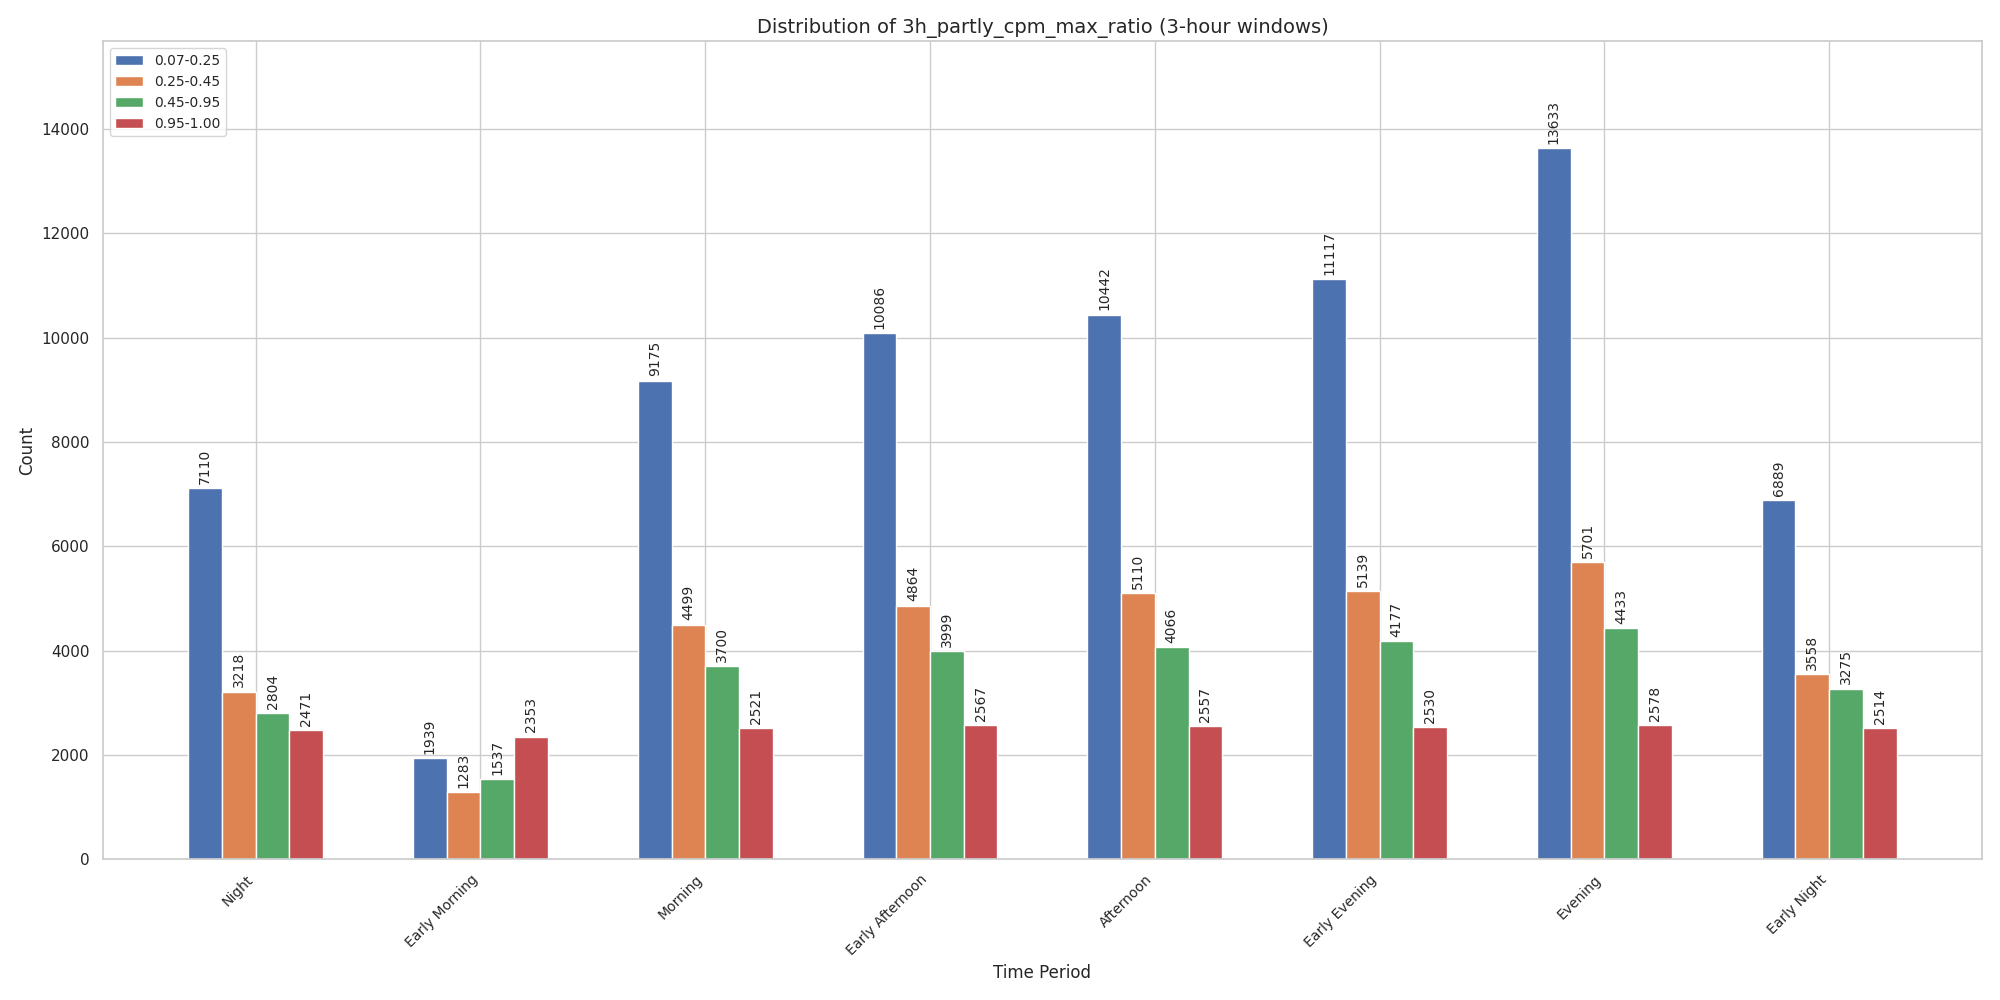
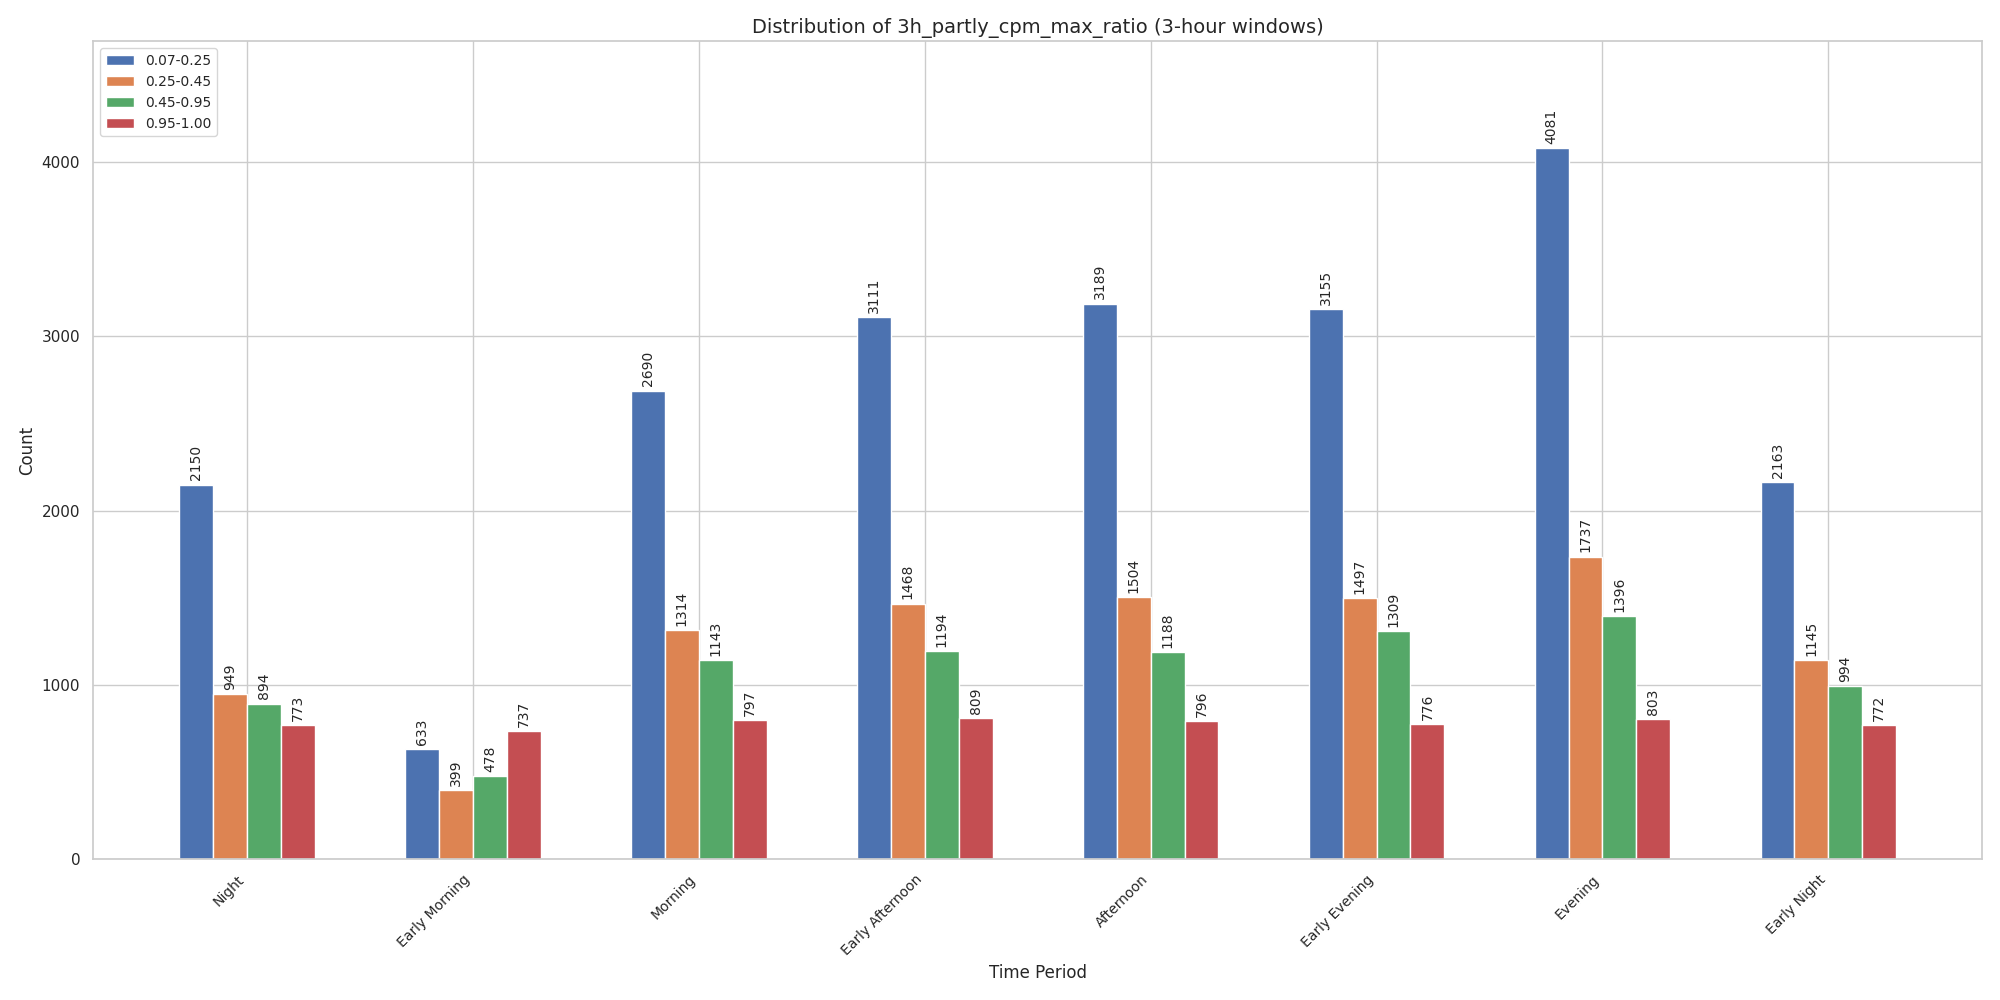
Commit 14 - Cleanup     - Inheritance and dataclass structure adjustment

diff --git a/src/models/pricing.py b/src/models/pricing.py
@@ -5,49 +5,43 @@ from typing import Dict
 
 import pandas as pd
 
-from config.data import DataConfig
-from config.data import DataState
 from config.model import ModelConfig
-from utils.running import Running
+from utils.execution import TaskExecutor
 
 
 class DynamicPricing:
     """Apply dynamic pricing to a dataframe."""
 
-    def __init__(self, data_state: DataState, data_config: DataConfig, model_config: ModelConfig):
-        self.ds = data_state
-        self.dc = data_config
-        self.runner = Running(self.ds, self.dc)
-        self.config = model_config
+    def __init__(self, model_config: ModelConfig):
+        self.mc = model_config
 
     def pipeline(self, df: pd.DataFrame) -> pd.DataFrame:
-        base_profit = df['price'].sum()
-
         steps = [
             self.apply_dynamic_pricing
         ]
         for step in steps:
-            df = self.runner.run_child_step(step, df)
+            df = TaskExecutor.run_child_step(step, df)
 
+        base_profit = df['price'].sum()
         dynamic_profit = df['dynamic_price'].sum()
         logging.info(f"Base return: {base_profit:.2f}, Dynamic return: {dynamic_profit:.2f}")
         logging.info(f"Return difference: {dynamic_profit - base_profit:.2f}")
         return df
 
     def calculate_surge_multiplier(self, mean_ratio: float) -> float:
-        for (lower, upper), multiplier in self.config.mean_ratio_bins.items():
+        for (lower, upper), multiplier in self.mc.mean_ratio_bins.items():
             if lower <= mean_ratio < upper:
                 return multiplier
         return 1.0
 
     def calculate_base_multiplier(self, max_ratio: float) -> float:
-        for (lower, upper), multiplier in self.config.max_ratio_bins.items():
+        for (lower, upper), multiplier in self.mc.max_ratio_bins.items():
             if lower <= max_ratio < upper:
                 return multiplier
         return 1.0
 
     def calculate_time_multiplier(self, time_period: str) -> float:
-        return self.config.day_parts.get(time_period, 1.0)
+        return self.mc.day_parts.get(time_period, 1.0)
 
     def calculate_demand_multiplier(self, row: Dict) -> float:
         surge_multiplier = self.calculate_surge_multiplier(row['3h_partly_cpm_mean_ratio'])

diff --git a/src/pipelines/data_pipeline.py b/src/pipelines/data_pipeline.py
@@ -1,32 +1,31 @@
 from __future__ import annotations
 
-from config.data import DataConfig
 from config.data import DataState
 from config.model import ModelConfig
 from src.data.make_dataset import MakeDataset
 from src.data.process import InitialProcessor
 from src.features.bound_analysis import AnalyseBounds
-from src.features.build_features import BuildFeatures
+from src.features.build_features import BuildAnalysisFeatures
 from src.features.build_model_features import BuildModelFeatures
 from src.models.pricing import DynamicPricing
-from utils.running import Running
+from utils.execution import TaskExecutor
 
 
 class DataPipeline:
-    def __init__(self, data_state: DataState, data_config: DataConfig, model_config: ModelConfig):
+    def __init__(self, exe: TaskExecutor, data_state: DataState, model_config: ModelConfig):
+        self.exe = exe
         self.ds = data_state
-        self.dc = data_config
+        self.dc = self.ds.config
         self.mc = model_config
-        self.runner = Running(self.ds, self.dc)
 
     def main(self):
         steps = [
-            (MakeDataset(self.ds, self.dc), 'raw', 'sdo'),
-            (InitialProcessor(self.ds, self.dc), 'sdo', 'process1'),
-            (BuildFeatures(self.ds, self.dc), 'process1', 'features1'),
-            (AnalyseBounds(self.ds, self.dc, self.mc), 'features1', None),
-            (BuildModelFeatures(self.ds, self.dc), 'process1', 'features2'),
-            (DynamicPricing(self.ds, self.dc, self.mc), 'features2', 'result'),
+            (MakeDataset(), 'raw', 'sdo'),
+            (InitialProcessor(), 'sdo', 'process1'),
+            (BuildAnalysisFeatures(self.dc), 'process1', 'features1'),
+            (AnalyseBounds(self.mc), 'features1', None),
+            (BuildModelFeatures(), 'process1', 'features2'),
+            (DynamicPricing(self.mc), 'features2', 'result'),
         ]
         for step, load_path, save_paths in steps:
-            self.runner.run_parent_step(step.pipeline, load_path, save_paths)
+            self.exe.run_parent_step(step.pipeline, load_path, save_paths)

diff --git a/main.py b/main.py
@@ -7,27 +7,27 @@ from config.data import DataPaths
 from config.data import DataState
 from config.model import ModelConfig
 from src.pipelines.data_pipeline import DataPipeline
+from utils.execution import TaskExecutor
 from utils.project_setup import setup_project
-from utils.running import Running
 
 
 class MainPipeline:
-    def __init__(self, data_state: DataState, data_config: DataConfig, model_config: ModelConfig):
+    def __init__(self, exe: TaskExecutor, data_state: DataState, model_config: ModelConfig):
+        self.exe = exe
         self.ds = data_state
-        self.dc = data_config
+        self.dc = self.ds.config
         self.mc = model_config
-        self.runner = Running(self.ds, self.dc)
 
     def run(self):
         steps = [
-            (DataPipeline(ds, dc, mc), 'raw', 'result'),
+            (DataPipeline(exe, ds, mc), 'raw', 'result'),
         ]
         for step, load_path, save_paths in steps:
             logging.info(
                 f'INITIATING {step.__class__.__name__} with:\n\
-                    Input_path: ``{self.ds.paths.get_path(load_path)}\n\
+                    Input_path: ``{self.ds.paths.get_path(load_path)}``\n\
                     Output_paths: ``{self.ds.paths.get_path(save_paths)}``\n')
-            self.runner.run_main_step(step.main, load_path, save_paths)
+            self.exe.run_main_step(step.main, load_path, save_paths)
             logging.info(f'{step.__class__.__name__} completed SUCCESSFULLY.\n')
 
 
@@ -37,10 +37,10 @@ if __name__ == '__main__':
     dc, dp = DataConfig(), DataPaths()
     ds = DataState(dp, dc)
     mc = ModelConfig()
-    runner = Running(ds, dc)
+    exe = TaskExecutor(ds)
 
     logging.info("INITIATING main.py MainPipeline...\n")
     try:
-        MainPipeline(ds, dc, mc).run()
+        MainPipeline(exe, ds, mc).run()
     except Exception as e:
-        logging.error(f'Pipeline terminated due to unexpected error: {e}', exc_info=False)
+        logging.error(f'Pipeline terminated due to unexpected error: {e}', exc_info=True)

diff --git a/src/features/build_features.py b/src/features/build_features.py
@@ -5,17 +5,16 @@ import pandas as pd
 from sklearn.preprocessing import MinMaxScaler
 
 from config.data import DataConfig
-from config.data import DataState
-from utils.running import Running
+from utils.execution import TaskExecutor
+
+# @log_all_methods
 
 
-class BuildFeatures:
+class BuildAnalysisFeatures:
     """Build/compose Extensive features for analysis"""
 
-    def __init__(self, data_state: DataState, data_config: DataConfig):
-        self.ds = data_state
+    def __init__(self, data_config: DataConfig):
         self.dc = data_config
-        self.runner = Running(self.ds, self.dc)
         self.scaler = MinMaxScaler(feature_range=(0, 1))
 
     def pipeline(self, df: pd.DataFrame) -> pd.DataFrame:
@@ -30,10 +29,12 @@ class BuildFeatures:
             self.build_moving_averages,
             self.build_price_features,
             self.build_distance_features,
-            self.build_lagged_features
+            self.build_lagged_features,
+            self.round_and_optimize_df
         ]
+        df = df[-int((len(df)*0.3)):]
         for step in steps:
-            df = self.runner.run_child_step(step, df)
+            df = TaskExecutor.run_child_step(step, df)
         return df
 
     def build_dt_features(self, df):
@@ -211,10 +212,12 @@ class BuildFeatures:
             df[f'cpm_lag_{lag}'] = df.groupby('date')['count_per_mile'].shift(lag).ffill()
         return df
 
-    def round_df(self, df):
-        float_cols = df.dtypes[df.dtypes == 'float64'].index
-        df[float_cols] = df[float_cols].round(2)
-        return df.dropna()
+    def round_and_optimize_df(self, df):
+        float_cols = df.select_dtypes(include=['float32', 'float64']).columns
+        df[float_cols] = df[float_cols].round(4)
+        int_cols = df.select_dtypes(include=['int64']).columns
+        df[int_cols] = df[int_cols].astype('int32')
+        return df
 
     # def save_summary_stats(self, df):
     #     summary_stats = df.groupby(['hour', 'dow_num']).agg({

diff --git a/src/features/build_model_features.py b/src/features/build_model_features.py
@@ -4,18 +4,13 @@ import numpy as np
 import pandas as pd
 from sklearn.preprocessing import MinMaxScaler
 
-from config.data import DataConfig
-from config.data import DataState
-from utils.running import Running
+from utils.execution import TaskExecutor
 
 
 class BuildModelFeatures:
     """Build only features required by model (instead of buidling extenive list of features and selecting)"""
 
-    def __init__(self, data_state: DataState, data_config: DataConfig):
-        self.ds = data_state
-        self.dc = data_config
-        self.runner = Running(self.ds, self.dc)
+    def __init__(self):
         self.scaler = MinMaxScaler(feature_range=(0, 1))
 
     def pipeline(self, df: pd.DataFrame) -> pd.DataFrame:
@@ -29,10 +24,10 @@ class BuildModelFeatures:
             self.build_ratios,
             self.build_scales,
             self.build_moving_averages,
-            self.round_df
+            self.round_and_optimize_df
         ]
         for step in steps:
-            df = self.runner.run_child_step(step, df)
+            df = TaskExecutor.run_child_step(step, df)
         return df
 
     def build_dt_features(self, df):
@@ -134,7 +129,9 @@ class BuildModelFeatures:
             df[col + '_rolling'] = df[col].rolling(window=window).mean()
         return df
 
-    def round_df(self, df):
-        float_cols = df.dtypes[df.dtypes == 'float64'].index
-        df[float_cols] = df[float_cols].round(2)
-        return df.dropna()
+    def round_and_optimize_df(self, df):
+        float_cols = df.select_dtypes(include=['float32', 'float64']).columns
+        df[float_cols] = df[float_cols].round(4)
+        int_cols = df.select_dtypes(include=['int64']).columns
+        df[int_cols] = df[int_cols].astype('int32')
+        return df

diff --git a/src/features/bound_analysis.py b/src/features/bound_analysis.py
@@ -6,21 +6,16 @@ import pandas as pd
 import seaborn as sns
 from sklearn.preprocessing import MinMaxScaler
 
-from config.data import DataConfig
-from config.data import DataState
 from config.model import ModelConfig
-from utils.running import Running
+from utils.execution import TaskExecutor
 sns.set_theme(style="whitegrid")
 
 
 class AnalyseBounds:
     """Analyse bounds of time periods (periods of max/min price/demand)"""
 
-    def __init__(self, data_state: DataState, data_config: DataConfig, model_config: ModelConfig):
-        self.ds = data_state
-        self.dc = data_config
+    def __init__(self, model_config: ModelConfig):
         self.mc = model_config
-        self.runner = Running(self.ds, self.dc)
         self.scaler = MinMaxScaler()
 
     def pipeline(self, df: pd.DataFrame) -> pd.DataFrame:
@@ -38,7 +33,7 @@ class AnalyseBounds:
         ]
         for step in steps:
             step_func, args = step
-            self.runner.run_child_step(step_func, df, args)
+            TaskExecutor.run_child_step(step_func, df, args)
         return df
 
     def analyze_and_plot_ratio_distributions(self, df, time_periods, window_size, bins, ratio_columns):

diff --git a/src/data/process.py b/src/data/process.py
@@ -4,18 +4,14 @@ import logging
 
 import pandas as pd
 
-from config.data import DataConfig
-from config.data import DataState
-from utils.running import Running
+from utils.execution import TaskExecutor
 
 
 class InitialProcessor:
     """Process extreme outliers, datetimes, timezone and sorting"""
 
-    def __init__(self, data_state: DataState, data_config: DataConfig):
-        self.ds = data_state
-        self.dc = data_config
-        self.runner = Running(self.ds, self.dc)
+    def __init__(self):
+        pass
 
     def pipeline(self, df: pd.DataFrame) -> pd.DataFrame:
         logging.debug(f'Preprocess shape: {df.shape}')
@@ -27,7 +23,7 @@ class InitialProcessor:
             self.remove_duplicates
         ]
         for step in steps:
-            df = self.runner.run_child_step(step, df)
+            df = TaskExecutor.run_child_step(step, df)
         logging.debug(f'PostProcess shape: {df.shape}')
         return df
 

diff --git a/utils/execution.py b/utils/execution.py
@@ -8,16 +8,15 @@ from typing import Union
 
 import pandas as pd
 
-from config.data import DataConfig
 from config.data import DataState
 from utils.file_access import FileAccess
 from utils.logging_utils import log_step
 
 
-class Running:
-    def __init__(self, data_state: DataState, data_config: DataConfig):
+class TaskExecutor:
+    def __init__(self, data_state: DataState):
         self.ds = data_state
-        self.dc = data_config
+        self.dc = self.ds.config
 
     def run_main_step(
             self, step: Callable,
@@ -66,8 +65,9 @@ class Running:
             result = logged_step(df)
             return result
 
+    @staticmethod
     def run_child_step(
-            self, step: Callable,
+            step: Callable,
             df: pd.DataFrame,
             args: Optional[Union[dict, None]] = None,
             kwargs: Optional[Union[dict, None]] = None) -> pd.DataFrame:

diff --git a/src/data/make_dataset.py b/src/data/make_dataset.py
@@ -4,26 +4,22 @@ import warnings
 
 import pandas as pd
 
-from config.data import DataConfig
-from config.data import DataState
-from utils.running import Running
+from utils.execution import TaskExecutor
 warnings.filterwarnings("ignore")
 
 
 class MakeDataset:
     """Load dataset and perform base processing"""
 
-    def __init__(self, data_state: DataState, data_config: DataConfig):
-        self.ds = data_state
-        self.dc = data_config
-        self.runner = Running(self.ds, self.dc)
+    def __init__(self):
+        pass
 
     def pipeline(self, df: pd.DataFrame) -> pd.DataFrame:
         steps = [
             self.base_process,
         ]
         for step in steps:
-            df = self.runner.run_child_step(step, df)
+            df = TaskExecutor.run_child_step(step, df)
         return df
 
     def base_process(self, df):

diff --git a/utils/logging_utils.py b/utils/logging_utils.py
@@ -11,6 +11,13 @@ from typing import Optional
 from typing import Union
 
 
+def log_cls_methods(cls):
+    for name, method in cls.__dict__.items():
+        if callable(method):
+            setattr(cls, name, log_step(view=True)(method))
+    return cls
+
+
 def log_step(
         load_path: Optional[Union[str, Path]] = None,
         save_paths: Optional[Union[str, Path, List[Union[str, Path]]]] = None,
